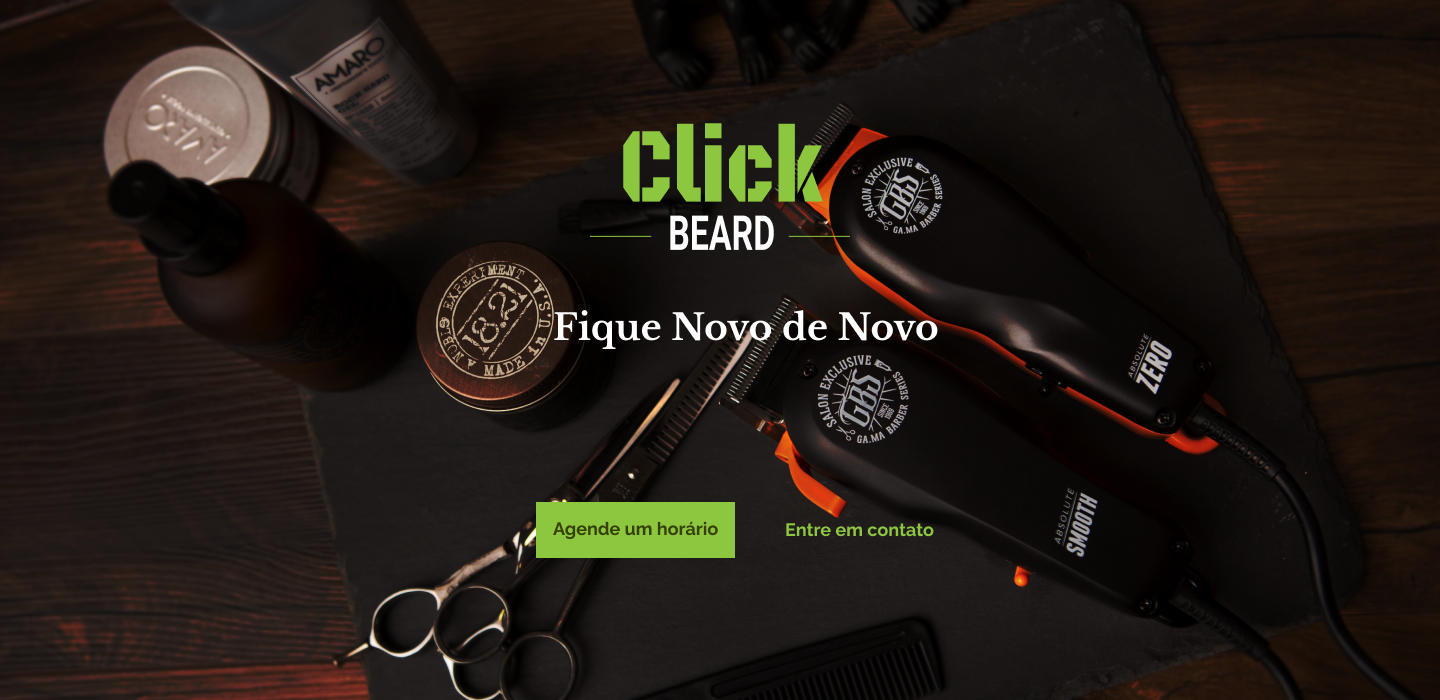
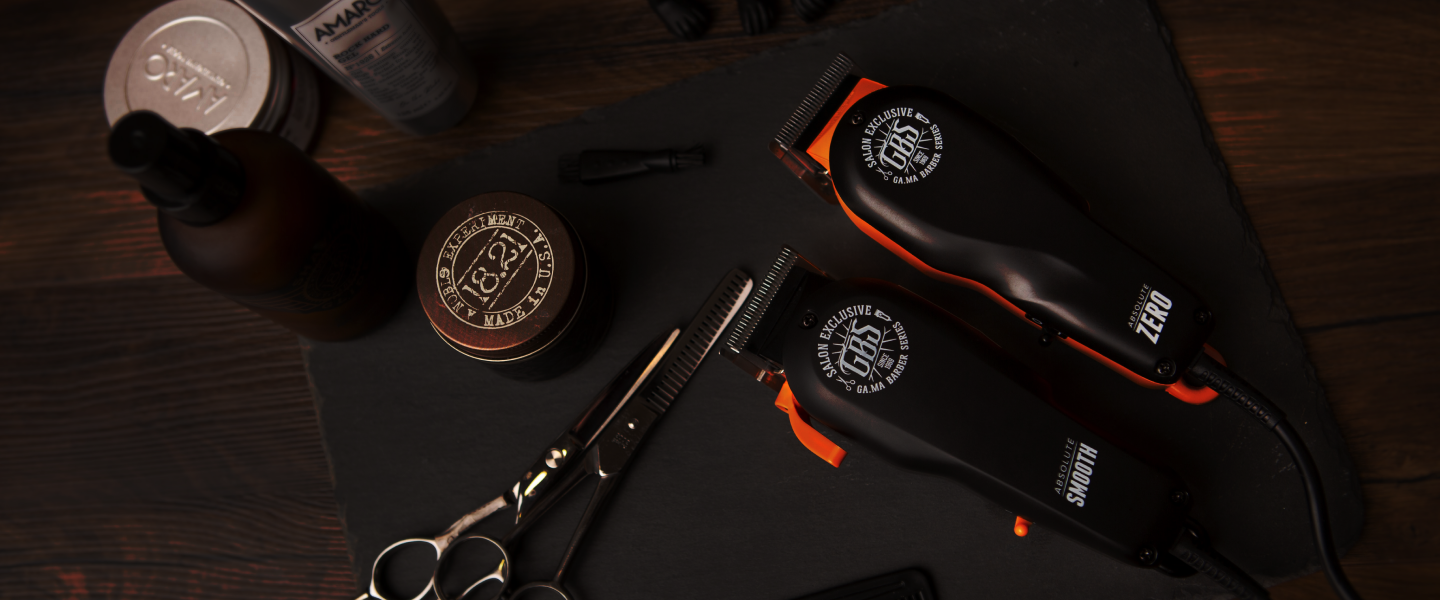
intro

diff --git a/css/style.css b/css/style.css
@@ -1,5 +1,9 @@
 @import url("https://fonts.googleapis.com/css2?family=Libre+Baskerville:ital,wght@0,700;1,400&family=Raleway:ital,wght@0,400;0,700;1,400&display=swap");
 
+body {
+  height: 5000px;
+}
+
 /* Header */
 #header {
   padding: 10px calc((100% - 960px) / 2);
@@ -28,4 +32,59 @@
   display: flex;
   justify-content: center;
   align-items: center;
+}
+
+/* Intro */
+.intro {
+  width: 100%;
+  height: 700px;
+  background: url("../img/intro.png") no-repeat center;
+  background-size: cover;
+}
+
+.intro-infos {
+  padding: 10px calc((100% - 960px) / 2);
+  text-align: center;
+}
+
+.intro-infos img {
+  height: 160px;
+  margin-top: 80px;
+}
+
+.intro-infos h1 {
+  font-family: "Libre Baskerville", serif;
+  font-size: 2.25rem;
+  color: #fff;
+  margin-top: 80px;
+  text-align: center;
+}
+
+.intro-infos p {
+  color: #fff;
+  line-height: 2rem;
+  text-align: center;
+  font-family: "Raleway", sans-serif;
+}
+
+.call-buttons {
+  margin-top: 80px;
+  font-family: "Raleway", sans-serif;
+  font-size: 1.125rem;
+}
+
+.btn-agendar {
+  height: 56px;
+  width: 199px;
+  background: #8dc63f;
+  color: #364101;
+}
+
+.btn-contato {
+  height: 56px;
+  width: 179px;
+  background: rgba(0, 0, 0, 0.2);
+  margin-left: 40px;
+  border: 2px solid #8dc63f;
+  color: #8dc63f;
 }

diff --git a/index.html b/index.html
@@ -20,5 +20,17 @@
       </ul>
     </nav>
   </header>
+
+  <section class="intro">
+    <div class="intro-infos">
+      <img src="img/logo.svg">
+      <h1>Fique novo de novo</h1>
+      <p>Os melhores profissionais do ramo prontos para te atender. Temos diversos serviços disponiveis para você. Agende um horário conosco.</p>
+      <div class="call-buttons">
+        <button class="btn-agendar">Agende um horário</button>
+        <button class="btn-contato">Entre em contato</button>
+      </div>
+    </div>
+  </section>
 </body>
 </html>

diff --git a/css/normalize.css b/css/normalize.css
@@ -194,6 +194,8 @@ select {
   /* 1 */
   text-transform: none;
   background: none;
+  border: none;
+  cursor: pointer;
 }
 
 /**
